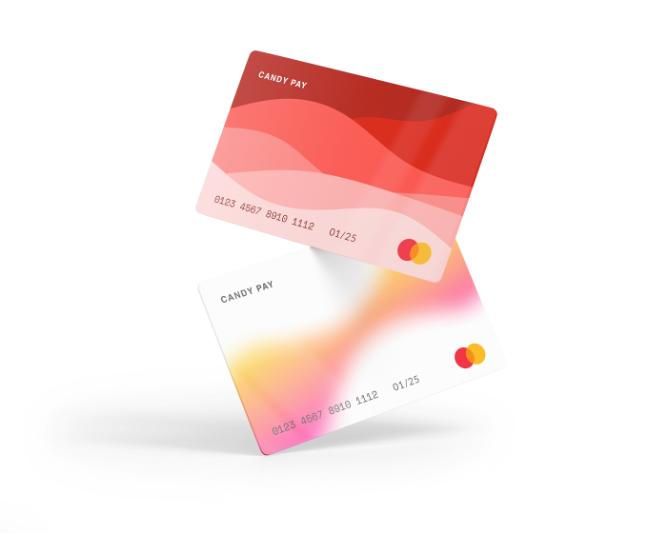
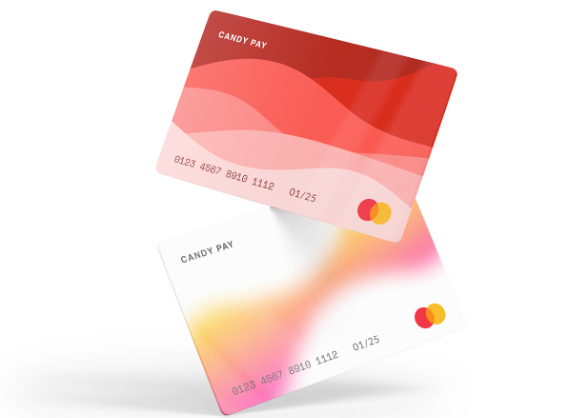
fix style & image

Changed region(s): [[0.178, 0.0, 0.801, 0.9952], [0.712, 0.7153, 0.801, 0.8086], [0.3264, 0.5287, 0.4154, 0.5909]]

diff --git a/apps/home/app/[locale]/page.tsx b/apps/home/app/[locale]/page.tsx
@@ -27,7 +27,7 @@ export default async function MyPage ({ params: { locale } }: { params: { locale
         >
           {t('download')}
         </Link>
-        <Image priority unoptimized src="/cards.png" alt="cards" width={720} height={720} />
+        <Image className="m-12" priority unoptimized src="/cards.png" alt="cards" width={640} height={460} />
       </section>
       <section
         className="hidden w-full max-w-screen-desktop flex-col items-center gap-5 px-6 py-9
